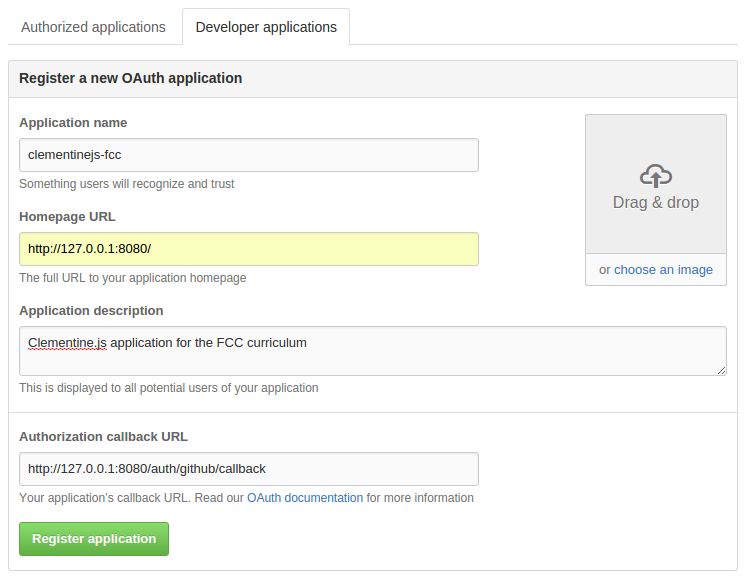
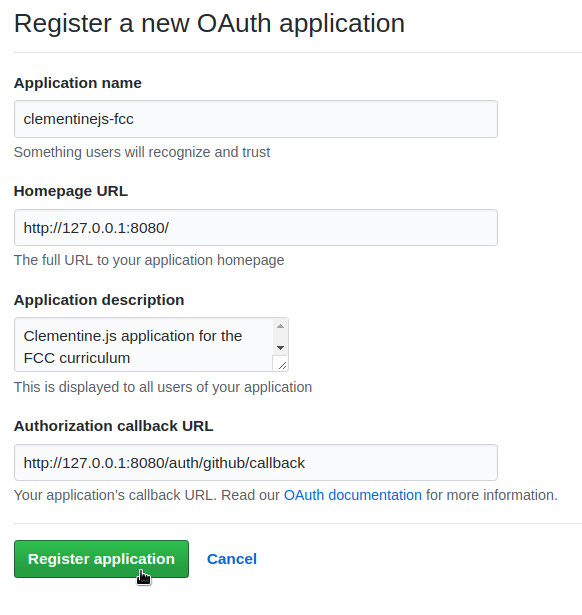
update passport tutorial photos

diff --git a/tutorials/tutorial-passport.md b/tutorials/tutorial-passport.md
@@ -400,7 +400,7 @@ Head to GitHub and log in.
 
 ![GitHub App Registration](/img/passporttut02.png)
 
-Once this is done, it will take you to a page with information about your application. On the top right, there will be codes for Client ID (API Key) and the Client Secret (API Secret). We'll use these later in our app.
+Once this is done, it will take you to a page with information about your application. At the top, there will be codes for Client ID (API Key) and the Client Secret (API Secret). We'll need these later in our app.
 
 ![GitHub API Keys](/img/passporttut03.png)
 
